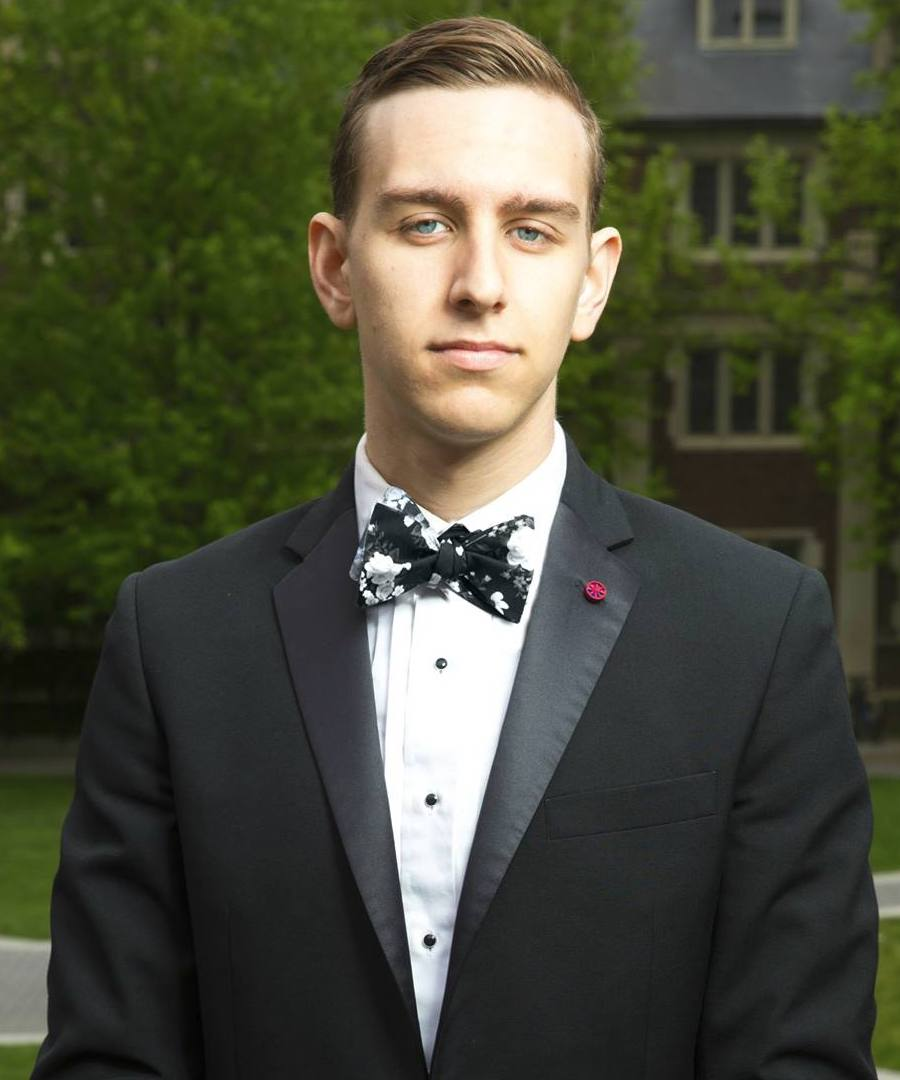
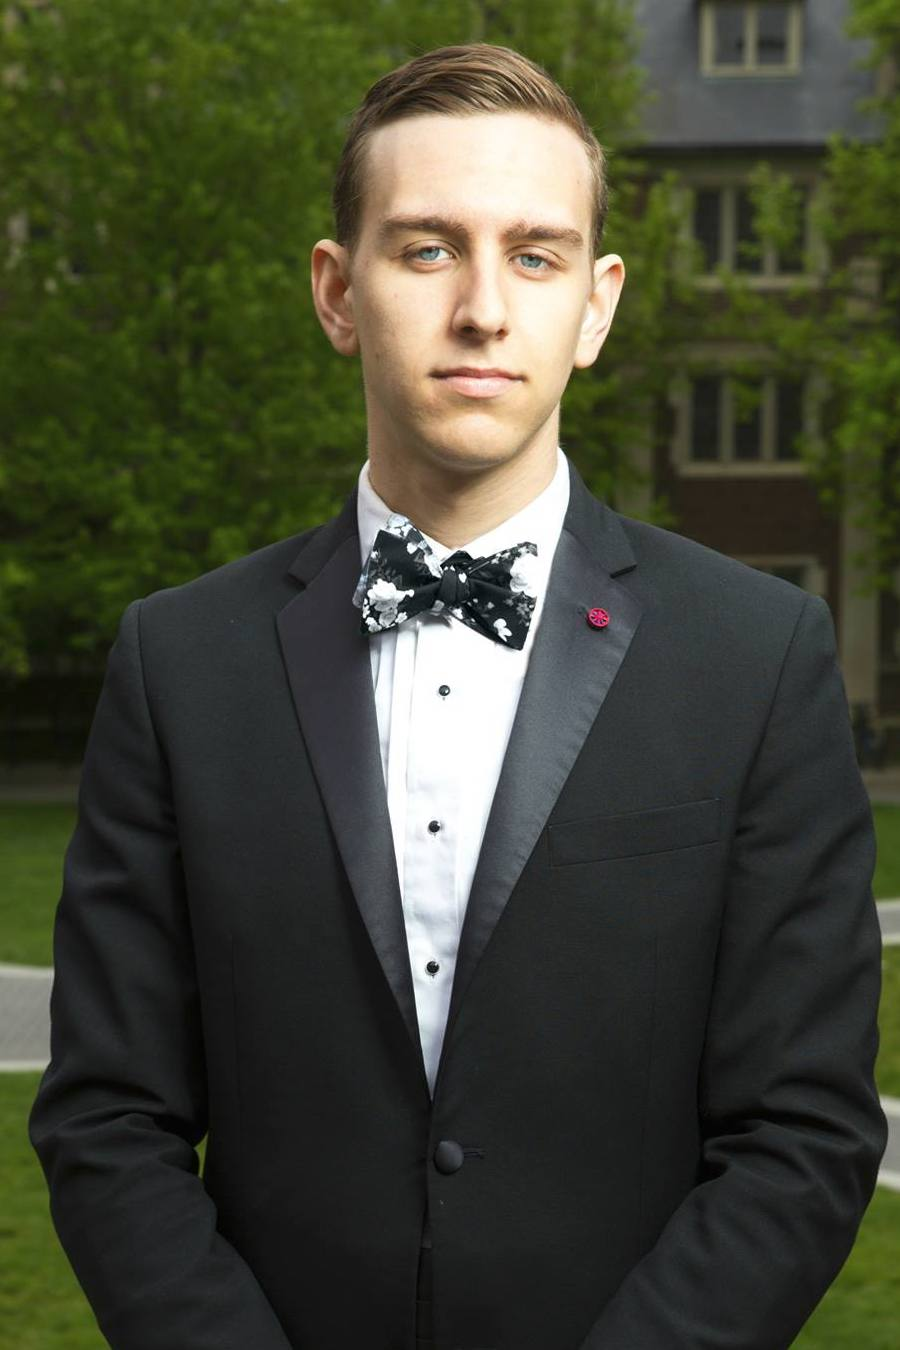
about tweaking

diff --git a/about.html b/about.html
@@ -64,8 +64,8 @@ html,body,h1,h2,h3,h4,h5,h6 {font-family: "Cairo", sans-serif}
   <!-- desktop -->
 
    <div class="" style="overflow:auto">
-    <img class="w3-left w3-hide-small" src="https://jnickseymour.com/media/jnseymour.jpg" style="width:35%; float: left"> 
-    <img class="w3-left w3-hide-medium w3-hide-large" src="https://jnickseymour.com/media/jnseymour.jpg" style="width:100%; float: left"> 
+    <img class="w3-left w3-hide-small" src="https://jnickseymour.com/media/jnseymour.jpg" style="width:40%; float: left"> 
+    <img class="w3-left w3-hide-medium w3-hide-large" src="https://jnickseymour.com/media/jnseymour_square.jpg" style="width:100%; float: left"> 
     <div  style="background-color: rgba(0, 0, 0, 0)">
      
       <h3 class="w3-center">J. NICK SEYMOUR</h3>
@@ -91,7 +91,8 @@ html,body,h1,h2,h3,h4,h5,h6 {font-family: "Cairo", sans-serif}
   </div>
   <div class="w3-row">
    <div class="w3-center">
-    <h3>Profile in Penn Today <a class="w3-hide-small">| by Lousia Shepard | June 21, 2018</a></h3>
+    <h3 class="w3-hide-small w3-hide-medium">Profile in Penn Today | by Lousia Shepard | June 21, 2018</h3>
+    <h3 class="w3-hide-large">Profile in Penn Today | June 21, 2018</h3>
     <a class="w3-button w3-white w3-hover-red w3-border w3-border-blue" href="https://penntoday.upenn.edu/news/behind-scenes">Read Article</a></br></a>&nbsp;</a>
    </div>
   </div>

diff --git a/w3_seymour.css b/w3_seymour.css
@@ -254,4 +254,5 @@ body, html {height: 100%;line-height: 1.8;color: dimgrey;}
 .w3-container-ns,.w3-panel{padding:0.01em 16px}.w3-panel{margin-top:16px;margin-bottom:16px}
 .w3-container-ns { padding:100px 50px; }
 @media (max-width:600px) {.w3-container-ns { padding:70px 20px; }}
+@media (min-width:1200px) {.w3-container-ns { padding:130px 80px; }}
 @media (max-width:600px) {.w3-large{font-size:15px!important}}
